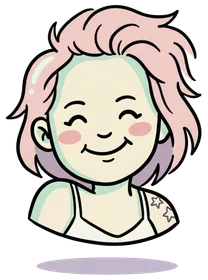
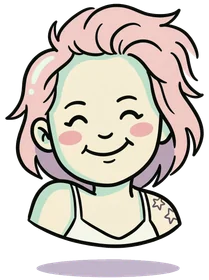
Sprite hover for the About tile
Adds images/About_Contact_hover_sprite.webp (25 frames) and data-sprite on the
tile. About_Contact_1.png is now the sheet's frame 0 crop, and About_Contact_1.webp is
regenerated with the Step 5 settings, so the idle icon stands in for
frame 0.

diff --git a/index.html b/index.html
@@ -117,7 +117,7 @@
   </a>
 
   <!-- ═══ ABOUT, left lower ═══ -->
-  <a href="/about" class="tile pos-ll">
+  <a href="/about" class="tile pos-ll" data-sprite="images/About_Contact_hover_sprite.webp" data-frames="25">
     <div class="tile-body">
       <div class="tile-img">
         <picture><source srcset="images/About_Contact_1.webp" type="image/webp"><img src="images/About_Contact_1.png" class="idle" alt="About"></picture>
